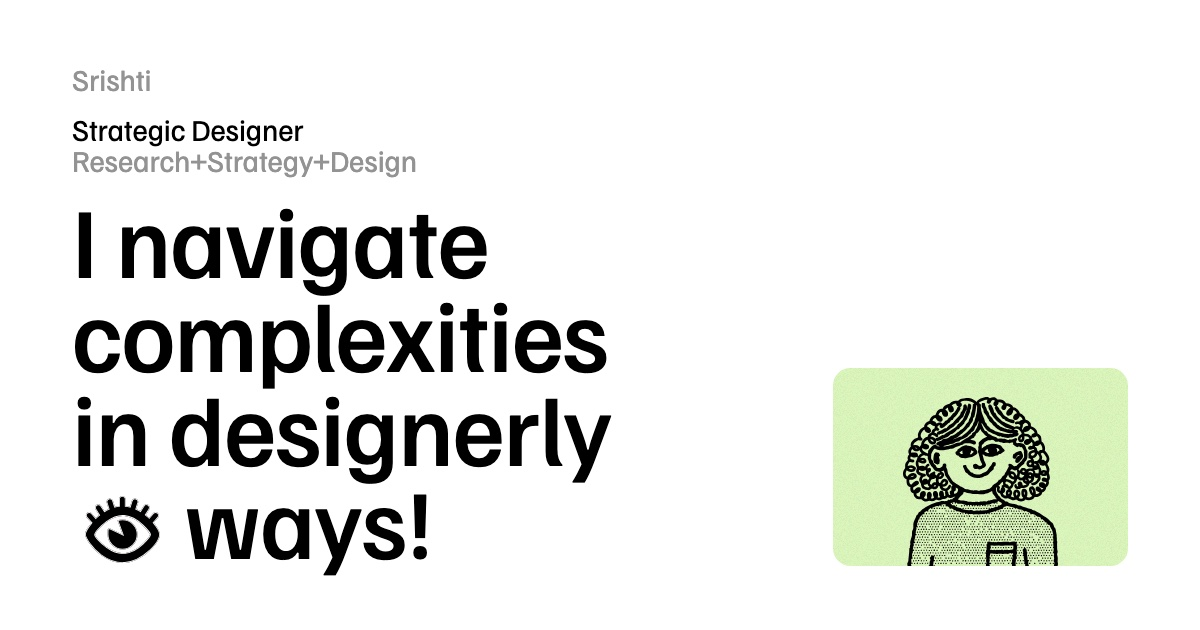
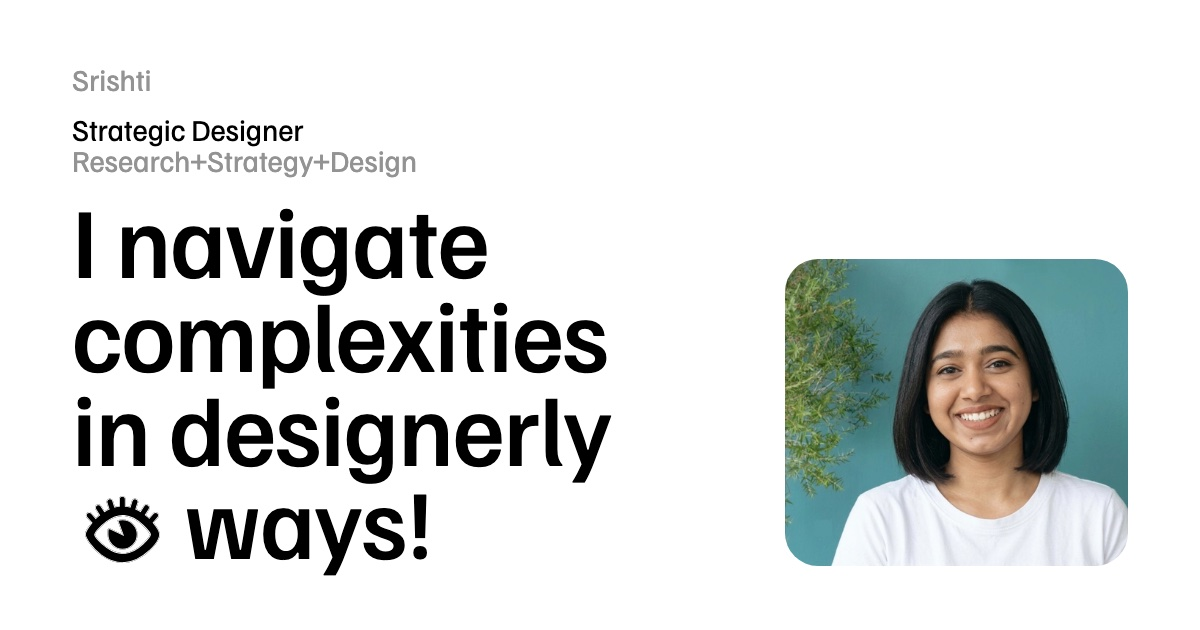
Use the portrait photo in the link-preview image
The photo replaces the illustrated avatar at the same scale, mirrored
as on the home page, and the image description now says so.

Changed region(s): [[0.6475, 0.3921, 0.9558, 0.9048]]

diff --git a/index.html b/index.html
@@ -17,7 +17,7 @@
   <meta property="og:image" content="https://srishtis.work/assets/share/home.jpg">
   <meta property="og:image:width" content="1200">
   <meta property="og:image:height" content="630">
-  <meta property="og:image:alt" content="“I navigate complexities in designerly ways!” beside an illustrated portrait of Srishti">
+  <meta property="og:image:alt" content="“I navigate complexities in designerly ways!” beside a photo of Srishti">
   <meta name="twitter:card" content="summary_large_image">
   <link rel="preconnect" href="https://fonts.googleapis.com">
   <link rel="preconnect" href="https://fonts.gstatic.com" crossorigin>
